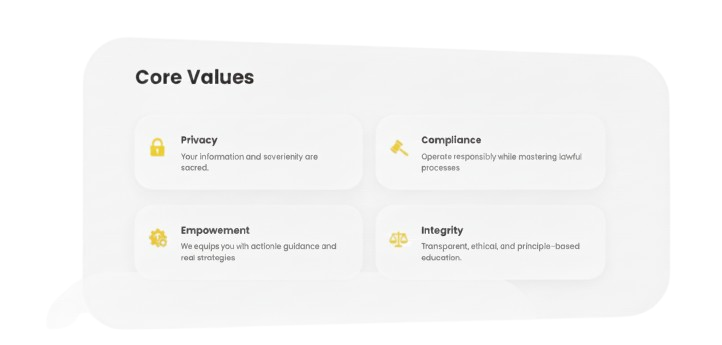
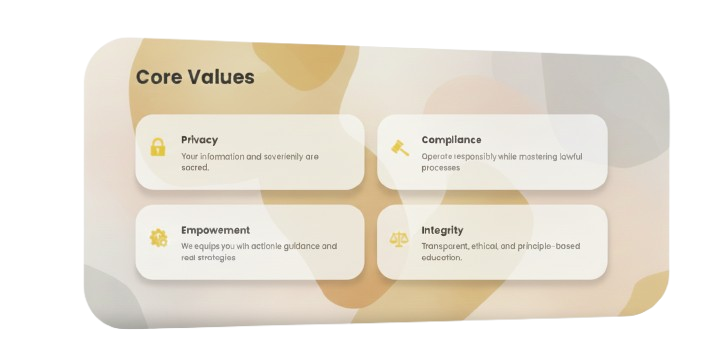
updates

diff --git a/client/src/components/VisionMission.jsx b/client/src/components/VisionMission.jsx
@@ -52,6 +52,87 @@ export default function VisionMission() {
         </p>
       </motion.div>
 
+      {/* Core Values */}
+      <div className="mt-16 grid md:grid-cols-2 gap-8 items-center">
+        <div className="bg-[#EFAB47] p-8 rounded-2xl">
+          <motion.h2
+            initial={{ opacity: 0, y: 40 }}
+            whileInView={{ opacity: 1, y: 0 }}
+            viewport={{ once: true }}
+            transition={{ duration: 0.6 }}
+            className="text-3xl font-bold text-[#315262] text-center md:text-left"
+          >
+            Core Values
+          </motion.h2>
+
+          <motion.ul
+            initial={{ opacity: 0 }}
+            whileInView={{ opacity: 1 }}
+            viewport={{ once: true }}
+            transition={{ duration: 0.8 }}
+            className="mt-6 space-y-4 text-lg text-white"
+          >
+            
+          </motion.ul>
+        </div>
+        {/* Core Values Object */}
+<motion.div
+  initial={{ opacity: 0, x: 50 }}
+  whileInView={{ opacity: 1, x: 0 }}
+  viewport={{ once: true }}
+  transition={{ duration: 0.8 }}
+  className="bg-gradient-to-br from-[#efe7da] to-[#d6ccb8] p-8 rounded-3xl shadow-lg max-w-xl mx-auto md:mx-0"
+>
+
+  <div className="grid grid-cols-1 sm:grid-cols-2 gap-4">
+    {/* Privacy */}
+    <div className="bg-white/80 backdrop-blur rounded-xl p-4 shadow flex gap-3">
+      <span className="text-yellow-600 text-2xl">🔒</span>
+      <div>
+        <h4 className="font-semibold text-gray-900">Privacy</h4>
+        <p className="text-gray-600 text-sm">
+          Your information and sovereignty are sacred.
+        </p>
+      </div>
+    </div>
+
+    {/* Compliance */}
+    <div className="bg-white/80 backdrop-blur rounded-xl p-4 shadow flex gap-3">
+      <span className="text-yellow-600 text-2xl">📜</span>
+      <div>
+        <h4 className="font-semibold text-gray-900">Compliance</h4>
+        <p className="text-gray-600 text-sm">
+          Operate responsibly while mastering lawful processes.
+        </p>
+      </div>
+    </div>
+
+    {/* Empowerment */}
+    <div className="bg-white/80 backdrop-blur rounded-xl p-4 shadow flex gap-3">
+      <span className="text-yellow-600 text-2xl">⚡</span>
+      <div>
+        <h4 className="font-semibold text-gray-900">Empowerment</h4>
+        <p className="text-gray-600 text-sm">
+          We equip you with actionable guidance and real strategies.
+        </p>
+      </div>
+    </div>
+
+    {/* Integrity */}
+    <div className="bg-white/80 backdrop-blur rounded-xl p-4 shadow flex gap-3">
+      <span className="text-yellow-600 text-2xl">⚖</span>
+      <div>
+        <h4 className="font-semibold text-gray-900">Integrity</h4>
+        <p className="text-gray-600 text-sm">
+          Transparent, ethical, and principle-based education.
+        </p>
+      </div>
+    </div>
+  </div>
+</motion.div>
+
+      </div>
+
       {/* Approach */}
       <motion.h2
         initial={{ opacity: 0, y: 40 }}
@@ -100,36 +181,6 @@ export default function VisionMission() {
             <p className="text-white leading-relaxed">{card.desc}</p>
           </motion.div>
         ))}
-      </div>
-
-      {/* Core Values */}
-      <motion.h2
-        initial={{ opacity: 0, y: 40 }}
-        whileInView={{ opacity: 1, y: 0 }}
-        viewport={{ once: true }}
-        transition={{ duration: 0.6 }}
-        className="mt-16 text-3xl font-bold text-white text-center"
-      >
-        Core Values
-      </motion.h2>
-
-      <motion.ul
-        initial={{ opacity: 0 }}
-        whileInView={{ opacity: 1 }}
-        viewport={{ once: true }}
-        transition={{ duration: 0.8 }}
-        className="mt-6 space-y-4 max-w-4xl mx-auto text-lg text-white"
-      >
-        
-      </motion.ul>
-
-      {/* Core Values Image */}
-      <div className="mt-8 flex justify-center">
-        <img 
-          src={coreImg} 
-          alt="Core Values" 
-          className="max-w-full h-auto rounded-lg shadow-lg"
-        />
       </div>
 
       {/* Disclaimer */}
